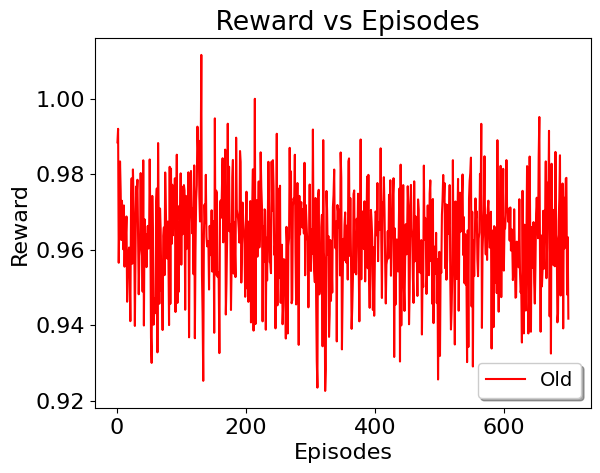
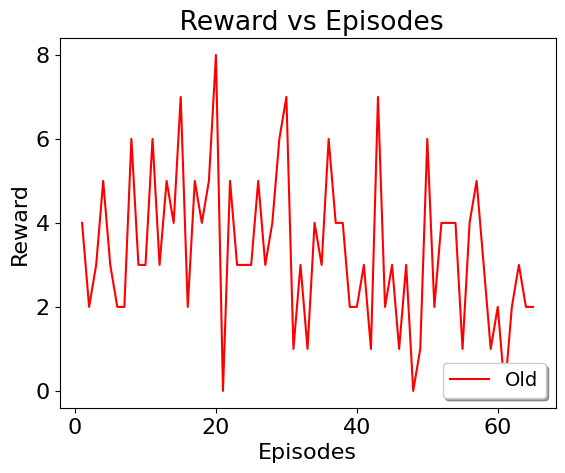
undo the changes of the params of small episodes and changed the two params of deep ql agent

diff --git a/Deep_QLearning_5G-master/view_results.py b/Deep_QLearning_5G-master/view_results.py
@@ -36,7 +36,7 @@ arrival_rate = "20"
 lost_r=  []
 
 
-lost_r_old =  [0.9884355680435452, 0.9920341424990151, 0.9565313366924285, 0.9705130274023424, 0.9833960619275525, 0.9756704255330602, 0.9625595110373332, 0.972958403449838, 0.9661637954294852, 0.9601057481922691, 0.9717248603119341, 0.9554967724963793, 0.9660814154617716, 0.963521165145084, 0.9688039411296708, 0.9462020097030527, 0.9539018546951356, 0.9588765940540797, 0.9605664023299785, 0.9533236269738957, 0.9410484414382912, 0.970127976337506, 0.9789148766181976, 0.9562767249940889, 0.981271101642071, 0.9729633187618288, 0.9645314431494025, 0.9397893658043489, 0.9571524612697139, 0.9767646370968524, 0.9746257999511241, 0.9785410401253233, 0.9624137382491382, 0.9481782258146855, 0.958333855310385, 0.9600830851553718, 0.9803073794600663, 0.9610246161558371, 0.9685183415259372, 0.9488932214673352, 0.9836837319059494, 0.9398982683324114, 0.9680676082984406, 0.9568936082896257, 0.9640558156319009, 0.9553734581558272, 0.9626479471093204, 0.9662979629491376, 0.9602974024121161, 0.9623225272202395, 0.9839162921989751, 0.9669773079751659, 0.9366797969283666, 0.929985997191058, 0.9742515138263518, 0.9623540783825818, 0.94011078679021, 0.9435586990891406, 0.9470439784592312, 0.9431856881803244, 0.972391160897992, 0.9762314810242272, 0.9327839050428209, 0.9882612562575668, 0.9673739062216002, 0.9456764230615208, 0.9709168030980512, 0.9654189809111439, 0.9491661358538016, 0.9519341808694936, 0.9387056802511694, 0.9636150510587693, 0.9659023402430761, 0.9532478973208324, 0.98046211745537, 0.9715821649023083, 0.9605136204367964, 0.9576638386565174, 0.9674539570664297, 0.9587505483399642, 0.9400167672843198, 0.9819685140394043, 0.9456414250317623, 0.9814963152587218, 0.9615046601765641, 0.97721924500977, 0.9638060589835629, 0.9754828387941423, 0.9669804710602288, 0.9789111073561847, 0.9434834376477075, 0.9641620725672878, 0.9851735447465486, 0.9458874926563858, 0.967180053550081, 0.9488427385209864, 0.9716250490572816, 0.9674512538401644, 0.9802350812036125, 0.9560300130153218, 0.9766392442960851, 0.964090440807783, 0.9722248178531531, 0.9771173082350092, 0.9757070268786738, 0.9440777358070447, 0.9742678953979471, 0.9601517032415373, 0.9723241871335472, 0.9630923104069644, 0.9805095059806023, 0.9367685609592352, 0.9667967103621373, 0.973439389649054, 0.9808667346460593, 0.9722078768002727, 0.9643156359679611, 0.9710417217248267, 0.9534917002675272, 0.9823401474346793, 0.936524642198335, 0.9595894990936401, 0.9733477187812447, 0.9770859473151832, 0.9926086319067083, 0.9864612934945486, 0.9888770612072584, 0.9739443426516775, 0.9674728816898615, 0.9825921299758433, 1.0116206232555378, 0.9535412734309111, 0.9427773044480738, 0.925237781502584, 0.9635821973620322, 0.9719592626887652, 0.9670471826527883, 0.9798459993645101, 0.9634517365820593, 0.960879097566531, 0.9622339176343564, 0.962140025003192, 0.9494408925103415, 0.9663162595350611, 0.9585478433586542, 0.9598735572702363, 0.9704433560819888, 0.9541916655256869, 0.9621423216743623, 0.9675244456044053, 0.9379712152651516, 0.9948068609634781, 0.9534353018709524, 0.9756794917492407, 0.9751431839367012, 0.9528687446274083, 0.9540407619003672, 0.9519122339301075, 0.932583916874555, 0.9720272369567812, 0.9730382797811779, 0.9684783899763719, 0.9760920833895139, 0.9842378084823784, 0.9619395293251133, 0.9739085204839439, 0.9639697213139563, 0.986523318889827, 0.9428147342490955, 0.9509440238957892, 0.9623288721255829, 0.9933874729799468, 0.9650843865988449, 0.9819890741396761, 0.9648828762121913, 0.9666223206877568, 0.9440116737720325, 0.9565568208653582, 0.9791287142408689, 0.9837803263374175, 0.9536712017120706, 0.9673588701640435, 0.9606082684680232, 0.9527329387611615, 0.9896891980289381, 0.9706508010423196, 0.9694554521731182, 0.9682492158740564, 0.9656382090824763, 0.961877956389992, 0.9861495824118828, 0.9832559237502401, 0.9512867282042332, 0.9594599659934947, 0.9724826386056219, 0.9677532327009727, 0.9654171245674549, 0.9615555821646034, 0.9475158424051798, 0.9599726566502922, 0.9753662658461868, 0.9497375787944781, 0.9675174013301947, 0.9461694796069583, 0.9586962788450045, 0.9623103485196383, 0.9728829428640793, 0.9407225014903162, 0.9508183902614941, 0.9720073551243844, 0.9812994978930218, 0.9385455674439732, 0.9615009510588317, 0.999994144734821, 0.940289969413952, 0.9681372405409173, 0.9731145255151363, 0.9581391292751537, 0.9682135799344552, 0.9780877624918204, 0.9605942628072558, 0.9656496133223881, 0.9858075326189835, 0.9766710690525962, 0.9715407217362522, 0.940999559707052, 0.966229518783125, 0.956800822407587, 0.9707040438864124, 0.9703768591890928, 0.938785596971405, 0.9631574752272192, 0.9518374984768309, 0.9657597637557359, 0.9832961730895277, 0.97125068755836, 0.9567506229504456, 0.956334163895623, 0.9537705563827664, 0.9833541728544454, 0.9703923519530964, 0.9837242011943907, 0.9768805459053301, 0.9586553402894767, 0.9609429856926222, 0.9391439478638786, 0.9644143177235309, 0.9907267501930005, 0.9452407866531299, 0.9761879736933683, 0.9603676480594604, 0.9524741603911727, 0.9769507469841433, 0.9459141908798244, 0.9526747766928704, 0.9613091661784324, 0.9402391055538863, 0.9452215002986323, 0.957492770602682, 0.9563575440341886, 0.957156738404637, 0.9364473609149024, 0.9660494116225582, 0.9616541175876661, 0.9377851141637229, 0.961034015389795, 0.96303888050364, 0.9869941154488153, 0.9688909607281749, 0.980755201447655, 0.945798406616929, 0.946723664043456, 0.9716427035574179, 0.9735713849636226, 0.9730808579569157, 0.9851640429270259, 0.9595135807996519, 0.9454917331205794, 0.9677613435595175, 0.977671646957354, 0.9603226664458888, 0.9347708143626969, 0.9742556088818133, 0.9640315341016866, 0.9705680409149452, 0.9726025110947842, 0.9662555603136166, 0.9658565807729126, 0.9707640046163677, 0.9642914891310721, 0.9830305986001229, 0.9532123468242412, 0.9718394956729491, 0.9676510887159196, 0.963115625061507, 0.9623537246518304, 0.9447155155223997, 0.9615040905359482, 0.9772663932366865, 0.9550818716991545, 0.9543535597519294, 0.9653441238039392, 0.9589055262115747, 0.9918491295539544, 0.9609434289247288, 0.954419069470721, 0.9513855306323784, 0.9736992721778641, 0.9469527742785367, 0.9304163974746942, 0.9234327590963479, 0.9740331537781073, 0.9758704442392008, 0.9481563208710195, 0.9502573772527407, 0.9496212777157701, 0.9659311474053771, 0.96922442913964, 0.9343980690404395, 0.9890419705884728, 0.9592822601687858, 0.9557559783447406, 0.9225626223631183, 0.928261343448748, 0.9755538102540788, 0.9703821845868729, 0.9586640579865513, 0.9636146545281191, 0.9368902685032051, 0.9428642275267001, 0.9625636254411903, 0.9464349339690895, 0.9569511145942601, 0.9486407460502905, 0.9712502218668012, 0.9745323163792934, 0.981240134771982, 0.9633212260021772, 0.9603909605321158, 0.9674581932879605, 0.9356836699401816, 0.971848355572646, 0.970110084712298, 0.9659394801602882, 0.9705921496974258, 0.9531753756248441, 0.9857694800203189, 0.9789867717800549, 0.9335720462322363, 0.9478183858421073, 0.9628634015734592, 0.9571407036401816, 0.9665358593797151, 0.9698758862146941, 0.9576843748529182, 0.9565641489220349, 0.9664053599197815, 0.9520782349963135, 0.9834096749728211, 0.9841911175131534, 0.9583680112526157, 0.9736700359783432, 0.9586747225317748, 0.9390098601524977, 0.9445995321915373, 0.9521546580896516, 0.974716184902932, 0.9757012384706143, 0.953964232260648, 0.9644386556431567, 0.9534562607718484, 0.9682101819911765, 0.9621761851042737, 0.9748364042921445, 0.9560880010724637, 0.9410021220225744, 0.962506222044287, 0.9892066562638936, 0.9521554432222992, 0.9692317642140754, 0.9696334199931479, 0.9702078473715485, 0.9601848911975185, 0.9728279160469293, 0.9515870437685817, 0.9640011750581691, 0.965471269984605, 0.9793775024298369, 0.9550796925000324, 0.9798341530647104, 0.9511921827213761, 0.9445897746558566, 0.9543632654035122, 0.9705427400973812, 0.9673656498894847, 0.9628943634953251, 0.944020346880059, 0.9606150951213414, 0.9424870023618439, 0.9555929091516334, 0.970126152585015, 0.9697080033417513, 0.9638077606421469, 0.9776678251531108, 0.9569502343359882, 0.9671546471200715, 0.967029314051787, 0.9653010680953005, 0.9868640068341589, 0.962573639966741, 0.947198942867347, 0.9725023739381378, 0.9706792348494494, 0.979215526661994, 0.9704635374600955, 0.9569279933284937, 0.9457365005965016, 0.9560539021716039, 0.9572955271653946, 0.9648825583454276, 0.9576629062581385, 0.974542471594539, 0.9656618179115123, 0.978408370325544, 0.9530895260279525, 0.9626681482574515, 0.9670515662890325, 0.9742916043173491, 0.9789357868011295, 0.9315589800574734, 0.9656266358340345, 0.9454283649804294, 0.9543357867180502, 0.9627180380846687, 0.9548055970326365, 0.9542275687837825, 0.9639117457533107, 0.9761718349990512, 0.9303558543880032, 0.9825385518725388, 0.9399289539948527, 0.9586800154846404, 0.9589609159087183, 0.9771207622597152, 0.9501804177869237, 0.9437688219680638, 0.9576330570297485, 0.9667559087373065, 0.958757787876031, 0.9634861465616599, 0.9768148866339166, 0.9704483658232106, 0.9402318774847932, 0.9487902771290501, 0.9714415813288161, 0.9771623791448887, 0.9656999576945208, 0.9631398009657907, 0.9526601215125953, 0.9458919134315512, 0.9781119089534241, 0.9569136482588222, 0.9688477130967714, 0.9627712520138605, 0.9595771554430824, 0.9477343153664278, 0.9733233408494089, 0.9706444367944884, 0.9541032599062682, 0.9562511337359577, 0.9537867097017231, 0.9625362343386998, 0.9375190357899262, 0.9536981491766697, 0.9500930829546379, 0.982289428508358, 0.9626536057565093, 0.9684417279483939, 0.9645960909526392, 0.9482633085755628, 0.9542800406865136, 0.9717260428426145, 0.9534846186916113, 0.9532310051624217, 0.9748586268773908, 0.9783709715220432, 0.956969351397598, 0.9730503137218312, 0.9456648471257597, 0.9734371878651471, 0.9405316784456788, 0.9608194798452209, 0.9597444713535892, 0.9536176535825153, 0.9644578741680299, 0.9458334313994253, 0.9574955900983794, 0.9255951281233333, 0.9442520156222735, 0.9594240454545414, 0.9318534526973007, 0.956329139741067, 0.9538376858840399, 0.9692886831132677, 0.9733915311746815, 0.9798081270889988, 0.9728613886829585, 0.9776843822802951, 0.955103244407111, 0.972080440170114, 0.9520296835005047, 0.9572257089307559, 0.9718754536331391, 0.9641715835655699, 0.966913256016778, 0.97711845810039, 0.9513738280361657, 0.938840336556766, 0.9437515517889772, 0.9530838851415899, 0.9837247848303267, 0.9547206777726706, 0.9595925739597514, 0.9348689155567639, 0.9727677403447418, 0.9635644908379749, 0.9522270407699335, 0.967090252467417, 0.9787524461097096, 0.9438222995745834, 0.9637372524318112, 0.9751037979086394, 0.9647757237641041, 0.967173559094012, 0.9741876897696707, 0.9799329312099728, 0.9585803133885847, 0.9686389488259609, 0.9511264610916234, 0.9641098379262689, 0.9507329705291424, 0.9534666206109378, 0.9301978400080092, 0.9651091799289443, 0.9341988327292821, 0.9734752077736071, 0.9783026210610206, 0.9803214723259319, 0.9843998618324783, 0.9449764546491011, 0.9700505348628594, 0.9290298735455645, 0.9624914688800577, 0.952991363426865, 0.9631804885827847, 0.9735852859361439, 0.9683973309410843, 0.9701423843783228, 0.9573299362164173, 0.9529694865226529, 0.9628984475263703, 0.9645355148836322, 0.9800996562408734, 0.9721295855801092, 0.9933580527897988, 0.9392639504947925, 0.9599459880712083, 0.9650853955416182, 0.9706336146911084, 0.9847545316823373, 0.9634109925396074, 0.958745190169663, 0.9690726359617455, 0.9572778493979545, 0.9706043597799353, 0.972991604510205, 0.967464414978382, 0.9605633989865143, 0.9609570135776572, 0.9700584583416704, 0.9337948062808391, 0.9617753849953005, 0.9650939158246453, 0.9394611610060082, 0.9662440596000456, 0.9511518595629966, 0.9609535620433831, 0.965890273711619, 0.9484982547836742, 0.989022411866558, 0.9614861981060252, 0.9435603233140393, 0.9733228739623855, 0.9642674829809155, 0.9822185641686456, 0.9474138104773696, 0.9677664797801889, 0.967178491862759, 0.9814283161667737, 0.9544525022912635, 0.9657516884376992, 0.9656305581023901, 0.9690915149386878, 0.9837433597813332, 0.9706331040167074, 0.9709896477597167, 0.96734985822762, 0.9702583079877707, 0.9624077881919538, 0.9711886459126149, 0.9597782849809111, 0.965422560334891, 0.9616816307450137, 0.9519410096620705, 0.9549727347907594, 0.970712240828175, 0.9596834808590355, 0.9472621464700368, 0.9474337259681299, 0.9621269642357494, 0.9605974054148165, 0.9590440051320291, 0.9553225130669238, 0.9733736787613039, 0.9542143008357546, 0.9486438464469781, 0.9498140043483857, 0.9353911815022523, 0.9756031599213018, 0.9515998562453629, 0.9378104086121085, 0.9666210069716282, 0.9609932311004842, 0.9438641327387487, 0.9630271882722236, 0.9821438508020116, 0.9703948875299895, 0.9377973072472088, 0.9460825342597401, 0.9846864037628636, 0.9625038019689891, 0.9382507183629989, 0.9660069542297114, 0.9551640341844765, 0.9577268644311774, 0.967306900301292, 0.9512528366447465, 0.9457172658196595, 0.9556804387588942, 0.9695718525253321, 0.9737719234570105, 0.9679653210909681, 0.9630316504615126, 0.9846144714629433, 0.99517017716489, 0.9591954019466786, 0.9382551817266702, 0.9637588993142693, 0.9502524770294194, 0.9544239361464829, 0.9702948493843409, 0.9549245443947877, 0.9703670490142947, 0.9687875743833948, 0.983397921974345, 0.9524342751702852, 0.960520594833887, 0.9777783735062893, 0.9722365990373393, 0.9914965993994157, 0.9423365417236246, 0.9729915848885176, 0.9324642479242347, 0.9827741886215756, 0.9655843319632239, 0.9705779574636768, 0.9558957459981972, 0.9613356859151323, 0.9556007328883301, 0.985911778568506, 0.9638998776809428, 0.9624470741053163, 0.9407347457631975, 0.9429901207335778, 0.9676537962118764, 0.9736048500995924, 0.9850224781611882, 0.9478480177695217, 0.9704175936189477, 0.9672303676192412, 0.9775447153013477, 0.9391300938358639, 0.9738138051083544, 0.9603416058156174, 0.9687240808310349, 0.978853052603186, 0.9790404754427253, 0.9481043989610142, 0.9633457376125881, 0.9417214218653349]
+lost_r_old = [4, 2, 3, 5, 3, 2, 2, 6, 3, 3, 6, 3, 5, 4, 7, 2, 5, 4, 5, 8, 0, 5, 3, 3, 3, 5, 3, 4, 6, 7, 1, 3, 1, 4, 3, 6, 4, 4, 2, 2, 3, 1, 7, 2, 3, 1, 3, 0, 1, 6, 2, 4, 4, 4, 1, 4, 5, 3, 1, 2, 0, 2, 3, 2, 2]
 
 
 
@@ -50,7 +50,7 @@ matplotlib.rc('font', **font)
 
 
 
-for i in range(700):
+for i in range(65):
    x.append(i+1)
 
 

diff --git a/Deep_QLearning_5G-master/main_deepsara.py b/Deep_QLearning_5G-master/main_deepsara.py
@@ -55,33 +55,13 @@ list_epi_reability_profit = []
 
 ## lists for the small episodes
 
-global attended_reqs
-global reject_nslr
-global reject_r_issue
-global accepted_reqs
-global list_profit_reability
-global list_profit_r2c
-global list_profit
-global terminate_events
-global nb_steps
 
 
 
 
-
-attended_reqs = 0
-reject_nslr = 0
-reject_r_issue = 0
-accepted_reqs = 0
-list_profit_reability = []
-list_profit_r2c = []
-list_profit = []
-terminate_events = 0
-nb_steps = 0
-
-
-
-
+# urllc_1_arrival_rate = 10 #5#1#2 #reqXsecond
+# urllc_2_arrival_rate = 40 #5#2.5 #reqXsecond
+# urllc_3_arrival_rate = 10 #5#1#2 #reqXsecond
 
 urllc_1_arrival_rate = 0
 #urllc_2_arrival_rate = 0
@@ -98,7 +78,7 @@ agente = None
 
 
 #RL-specific parameters 
-episodes = 50 #240##350
+episodes = 10 #240##350
 
 
 
@@ -175,8 +155,10 @@ class Sim:
                          ## more likely its the start time of the current event that is being treated
         self.run_till = 1 ## initially was -1
         self.total_reqs = 0
-        """self.nb_steps =0
-      
+        self.nb_steps =0
+        #self.total_urllc_1_reqs = 0
+        #self.total_urllc_2_reqs = 0
+        #self.total_urllc_3_reqs = 0
         self.attended_reqs = 0
         self.list_profit_r2c = []
         self.list_profit_reability = []
@@ -186,7 +168,7 @@ class Sim:
         self.reject_r_issue = 0
         self.reject_nslr = 0
         self.accepted_reqs = 0
-        self.terminate_events = 0"""
+        self.terminate_events = 0
   
                    
 
@@ -525,15 +507,7 @@ def func_arrival(c,evt): #NSL arrival, we will treate the one URLLC request arri
 
 
 ## for the lists for small episodes
-    global attended_reqs
-    global reject_nslr
-    global reject_r_issue
-    global accepted_reqs
-    global list_profit_reability
-    global list_profit_r2c
-    global list_profit
-    global terminate_events
-    global nb_steps
+   
     
 
     sim = c.simulation 
@@ -553,7 +527,7 @@ def func_arrival(c,evt): #NSL arrival, we will treate the one URLLC request arri
    
     vnfs = sim.request.nsl_graph["vnfs"]
     vlinks = sim.request.nsl_graph["vlinks"]
-    attended_reqs = attended_reqs +1
+    sim.attended_reqs = sim.attended_reqs +1
     #print("TYPE  : ", evt.extra["service_type"])
     ## here we should take the action and state from the last request placement:
     """if(evt.extra["first_event"] == True):
@@ -575,7 +549,7 @@ def func_arrival(c,evt): #NSL arrival, we will treate the one URLLC request arri
 
 
         state = state.tolist()[0]
-        nb_steps +=1
+        sim.nb_steps +=1
         a = agente.step(state,r)  
       
        
@@ -590,7 +564,7 @@ def func_arrival(c,evt): #NSL arrival, we will treate the one URLLC request arri
 
             if (index != len(vnfs)-1): ## its not the last episode, ressources forcly
                 r = -1
-                reject_nslr = reject_nslr +1
+                sim.reject_nslr = sim.reject_nslr +1
                 #print("VNF REJECT --- RSC")
                 last_reward = r
                 
@@ -598,13 +572,13 @@ def func_arrival(c,evt): #NSL arrival, we will treate the one URLLC request arri
             else: ## its the last one
                 if(rejected_r): ## reliability issue
                     r = -1
-                    reject_r_issue = reject_r_issue+1
+                    sim.reject_r_issue = sim.reject_r_issue+1
                     #print("VNF REJECT --- REA", r)
                     last_reward = r
                     break
                 else: ## last vnf and ressource issue
                     r = -1
-                    reject_nslr = reject_nslr +1
+                    sim.reject_nslr = sim.reject_nslr +1
                     last_reward = r
                     #print("VNF REJECT --- RSC LAST")
                    
@@ -615,7 +589,7 @@ def func_arrival(c,evt): #NSL arrival, we will treate the one URLLC request arri
             if (index == len(vnfs)-1):
 
                 
-                accepted_reqs = accepted_reqs +1
+                sim.accepted_reqs = sim.accepted_reqs +1
                 #print("ACCEPT")
 
                 ## define the new reward here:
@@ -638,44 +612,44 @@ def func_arrival(c,evt): #NSL arrival, we will treate the one URLLC request arri
                 #print("cout: ", cout)
                 
                 r = 0.9*(revenue/cout) + 0.1*reliability_total
-                list_profit_reability.append(reliability_total)
-                list_profit_r2c.append(revenue/cout)
+                sim.list_profit_reability.append(reliability_total)
+                sim.list_profit_r2c.append(revenue/cout)
                 
-                list_profit.append(r)
+                sim.list_profit.append(r)
                 last_reward = r
 
 
-        if nb_steps == 100:
+        if sim.nb_steps == 100:
 
 
             #f = open("deepsara_"+ "_10BA_300epi_run-time4.txt","a+")
-            episode_profit = sum(list_profit) / len(list_profit) 
-            episode_profit_r2c = sum(list_profit_r2c) / len(list_profit_r2c) 
-            episode_profit_reability = sum(list_profit_reability) / len(list_profit_reability) 
+            episode_profit = sum(sim.list_profit) / len(sim.list_profit) 
+            episode_profit_r2c = sum(sim.list_profit_r2c) / len(sim.list_profit_r2c) 
+            episode_profit_reability = sum(sim.list_profit_reability) / len(sim.list_profit_reability) 
 
           
 
-            list_attended_req.append(attended_reqs)
-            list_accepted_req.append(accepted_reqs)
-            list_terminated_req.append(terminate_events)
-            list_lost_r_issue.append(reject_r_issue)
-            list_lost_resc.append(reject_nslr)
-            list_acceptance_ratio.append((accepted_reqs/ attended_reqs)*100)
+            list_attended_req.append(sim.attended_reqs)
+            list_accepted_req.append(sim.accepted_reqs)
+            list_terminated_req.append(sim.terminate_events)
+            list_lost_r_issue.append(sim.reject_r_issue)
+            list_lost_resc.append(sim.reject_nslr)
+            list_acceptance_ratio.append((sim.accepted_reqs/ sim.attended_reqs)*100)
             list_epi_profit.append(episode_profit)
             list_epi_r2c_profit.append(episode_profit_r2c)
             list_epi_reability_profit.append(episode_profit_reability)
             
-            
-            nb_steps = 0
+           
+            sim.nb_steps = 0
             episode +=1
-            reject_r_issue =0
-            reject_nslr =0
-            attended_reqs =0
-            accepted_reqs =0
-            terminate_events =0
-            list_profit =[]
-            list_profit_r2c =[]
-            list_profit_reability =[]
+            sim.reject_r_issue =0
+            sim.reject_nslr =0
+            sim.attended_reqs =0
+            sim.accepted_reqs =0
+            sim.terminate_events =0
+            sim.list_profit =[]
+            sim.list_profit_r2c =[]
+            sim.list_profit_reability =[]
             print("small episode: ", episode)
 
  
@@ -704,14 +678,10 @@ def func_arrival(c,evt): #NSL arrival, we will treate the one URLLC request arri
 
 def func_terminate(c,evt):   ## terminates a request, updates the ressources and reduced the number of instantiated reqs list
     
-
-
-    global terminate_events
-
     sim = c.simulation
     
     #print("*******************  terminating")
-    terminate_events += 1
+    sim.terminate_events += 1
     
     G = nx.Graph()
    

diff --git a/Deep_QLearning_5G-master/dql.py b/Deep_QLearning_5G-master/dql.py
@@ -49,7 +49,8 @@ class Network(object):
     def __init__(self,
                  input_size,
                  output_size,
-                 hidden_size=[50, 50], # ATTTT: we have here two hidden layers
+                 #hidden_size=[50, 50], # ATTTT: we have here two hidden layers
+                 hidden_size=[128, 64], ## new test here
                  weights_initializer=tf.initializers.glorot_uniform(),
                  bias_initializer=tf.initializers.zeros(),
                  optimizer=tf.optimizers.Adam,
@@ -147,7 +148,8 @@ class Agent(object):
                  action_space_size,
                  target_update_freq=100, #1000, #cada n steps se actualiza la target network
                  discount=0.99,
-                 batch_size=32,
+                 #batch_size=32,
+                 batch_size=300, ## new test here
                  max_explore=1,
                  min_explore=0.05,
                  anneal_rate=(1/5000), #100000),
